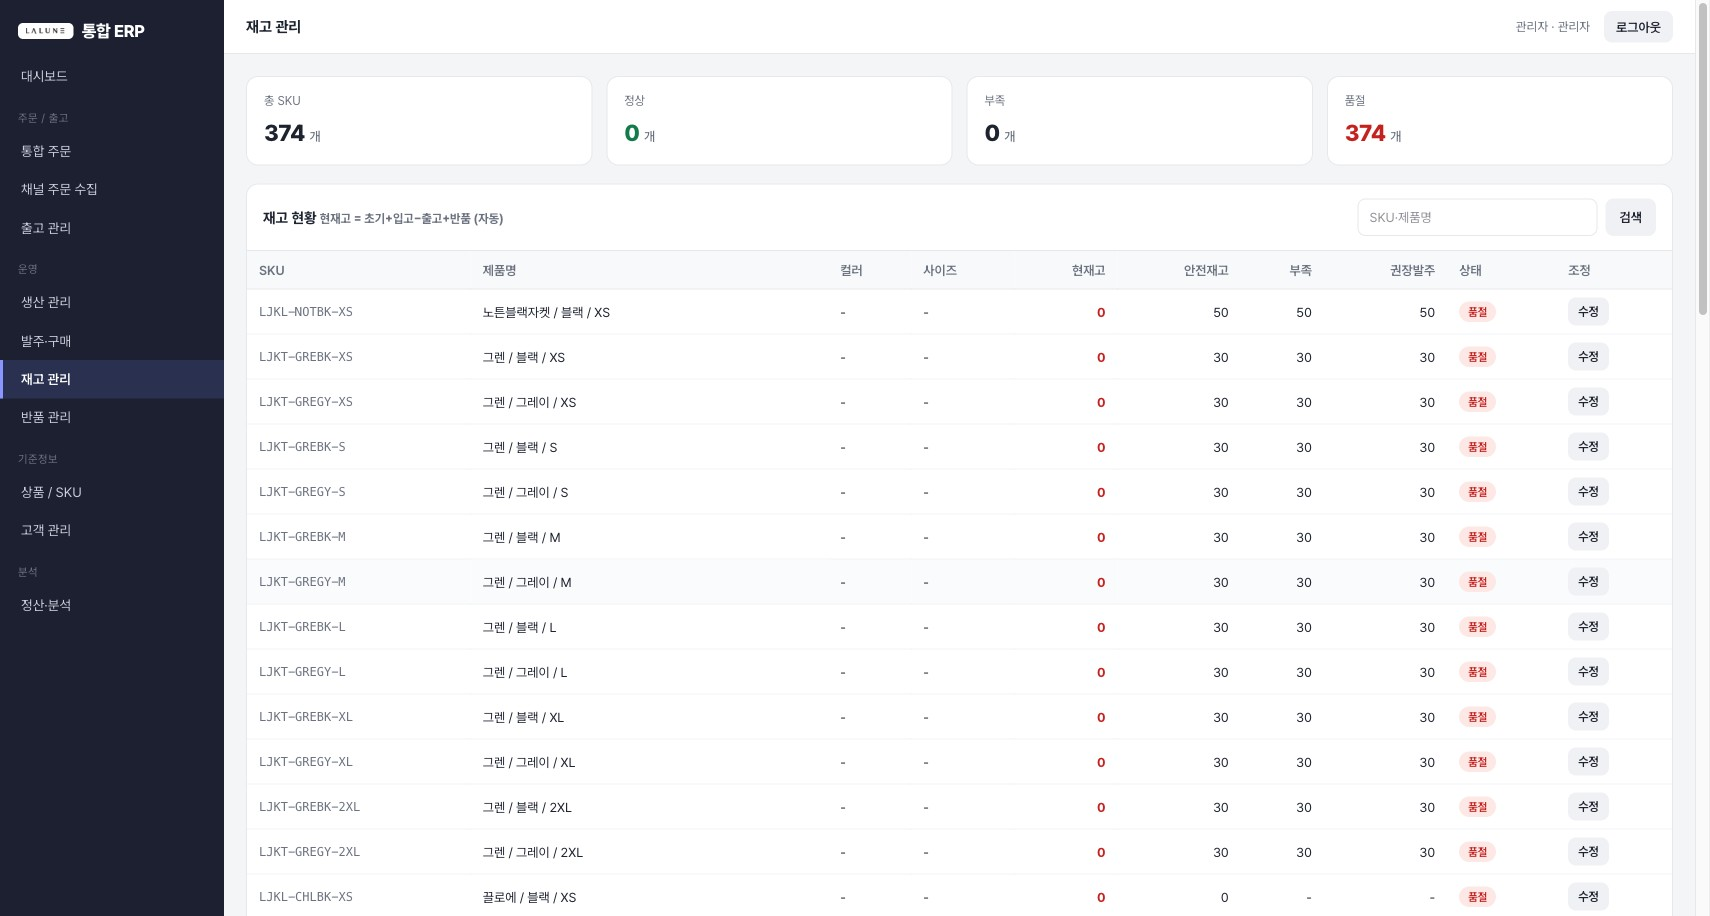
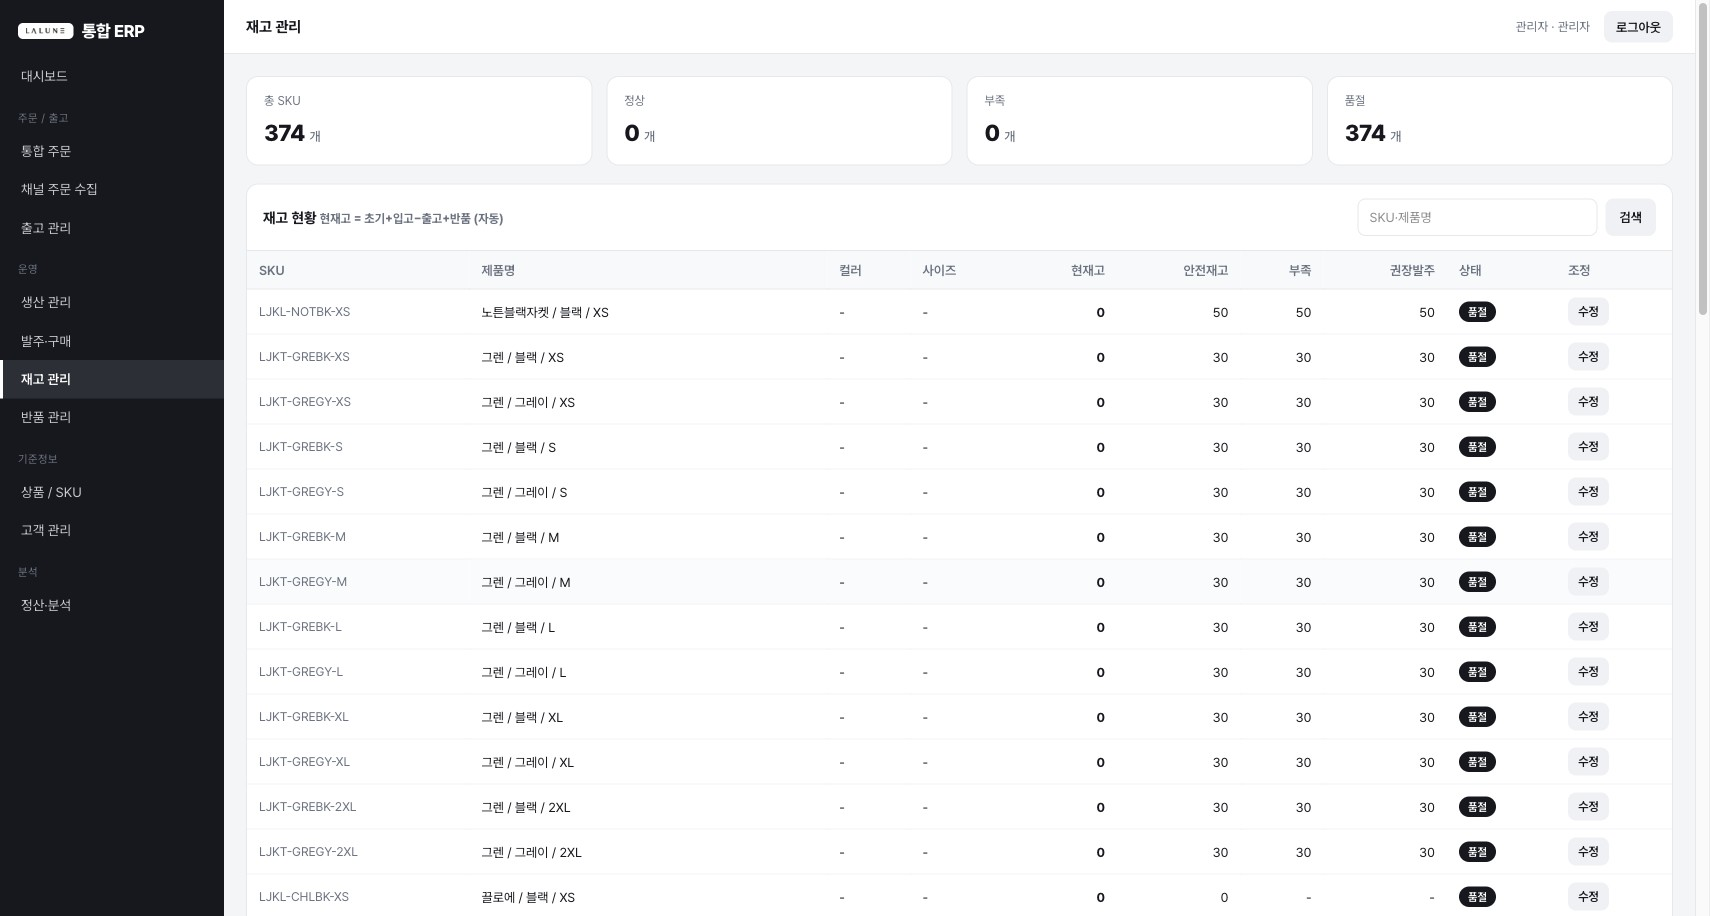
ERP: 전체 블랙앤화이트 테마 + 매뉴얼 인트로 인터랙션 + 폰트 Pretendard 통일
- globals.css/login/dashboard/analytics/Uploader 색상 모노톤(블랙앤화이트)으로 통일
- 매뉴얼(/lalune-erp/manual): 파랑→검정 폰트, 진입 시 블랙 레이어 상하 분할 인트로
  ("환영합니다, 라린느 담당자님" / "사용 매뉴얼을 보여드리겠습니다")
- 매뉴얼 말미 데모 안내문구 추가 (디자인 고도화는 계약 이후)
- 전 화면 스크린샷 14장 B&W로 재캡처

diff --git a/erp/app/app/manual/route.ts b/erp/app/app/manual/route.ts
@@ -15,15 +15,15 @@ const HTML = `<!DOCTYPE html>
 <link rel="preconnect" href="https://cdn.jsdelivr.net"/>
 <style>
 @import url('https://cdn.jsdelivr.net/gh/orioncactus/pretendard@v1.3.9/dist/web/variable/pretendardvariable.min.css');
-:root{--ink:#16181d;--sub:#5b616e;--muted:#9aa0ac;--line:#e6e8ec;--bg:#fff;--soft:#f6f7f9;--brand:#2f3a8f;--brand-50:#eef0fb;--ok:#137a4b;--ok-50:#e7f6ee;--warn:#b45309;--warn-50:#fef6e7;--danger:#c5221f;}
+:root{--ink:#16181d;--sub:#5b616e;--muted:#9aa0ac;--line:#e6e8ec;--bg:#fff;--soft:#f6f7f9;--brand:#16181d;--brand-50:#f1f2f4;--ok:#137a4b;--ok-50:#e7f6ee;--warn:#b45309;--warn-50:#fef6e7;--danger:#c5221f;}
 *{box-sizing:border-box;margin:0;padding:0;}
 body{font-family:'Pretendard Variable',Pretendard,-apple-system,system-ui,sans-serif;color:var(--ink);line-height:1.75;background:var(--soft);-webkit-font-smoothing:antialiased;}
 .page{max-width:1080px;margin:0 auto;background:#fff;}
 /* cover */
 .cover{background:#111;color:#fff;padding:80px 64px 56px;}
-.cover .badge{display:inline-block;border:1px solid rgba(255,255,255,.35);color:#cdd2e6;padding:5px 14px;border-radius:20px;font-size:12px;letter-spacing:.08em;margin-bottom:26px;}
+.cover .badge{display:inline-block;border:1px solid rgba(255,255,255,.35);color:#cfcfcf;padding:5px 14px;border-radius:20px;font-size:12px;letter-spacing:.08em;margin-bottom:26px;}
 .cover h1{font-size:42px;font-weight:800;letter-spacing:-.02em;line-height:1.2;}
-.cover h1 b{color:#aab2ff;}
+.cover h1 b{color:#fff;}
 .cover p{color:rgba(255,255,255,.55);font-size:16px;margin-top:12px;}
 .cover .meta{display:flex;gap:48px;margin-top:48px;padding-top:28px;border-top:1px solid rgba(255,255,255,.12);flex-wrap:wrap;}
 .cover .meta div{font-size:13px;color:rgba(255,255,255,.5);}
@@ -34,7 +34,7 @@ body{font-family:'Pretendard Variable',Pretendard,-apple-system,system-ui,sans-s
 .login .row{display:flex;gap:36px;flex-wrap:wrap;}
 .login .row div{font-size:14px;}
 .login .row b{display:block;font-size:12px;color:var(--muted);margin-bottom:2px;font-weight:600;}
-.login .row code{font-family:ui-monospace,Menlo,monospace;background:var(--soft);padding:3px 8px;border-radius:6px;font-size:13.5px;}
+.login .row code{font-family:inherit;font-weight:600;background:var(--soft);padding:3px 8px;border-radius:6px;font-size:13.5px;}
 .body{padding:48px 64px 80px;}
 /* toc */
 .toc{background:var(--soft);border:1px solid var(--line);border-radius:14px;padding:24px 26px;margin-bottom:48px;}
@@ -57,7 +57,7 @@ li{margin-bottom:7px;font-size:15px;}
 li b{color:var(--ink);}
 .callout{display:flex;gap:12px;padding:14px 16px;border-radius:10px;margin:16px 0;font-size:14.5px;}
 .callout .ic{flex-shrink:0;font-weight:800;}
-.callout.next{background:var(--brand-50);color:#27306a;}
+.callout.next{background:var(--brand-50);color:#16181d;}
 .callout.tip{background:var(--ok-50);color:#0f5c39;}
 .callout.warn{background:var(--warn-50);color:#7a4708;}
 table.kv{width:100%;border-collapse:collapse;margin:14px 0;font-size:14px;}
@@ -66,13 +66,13 @@ table.kv th{background:var(--soft);color:var(--sub);font-weight:600;width:200px;
 /* flow diagram */
 .flow{background:#111;border-radius:14px;padding:30px;color:#fff;margin:20px 0;}
 .flow .step{display:flex;align-items:center;gap:16px;margin-bottom:14px;}
-.flow .num{width:30px;height:30px;border-radius:50%;background:#aab2ff;color:#111;font-weight:800;display:flex;align-items:center;justify-content:center;flex-shrink:0;}
-.flow .box{background:#1e2233;border:1px solid #2c3350;border-radius:10px;padding:12px 16px;flex:1;}
+.flow .num{width:30px;height:30px;border-radius:50%;background:#fff;color:#111;font-weight:800;display:flex;align-items:center;justify-content:center;flex-shrink:0;}
+.flow .box{background:#1e1e1e;border:1px solid #353535;border-radius:10px;padding:12px 16px;flex:1;}
 .flow .box b{color:#fff;}
-.flow .box span{color:#9aa3c7;font-size:13.5px;}
+.flow .box span{color:#a8a8a8;font-size:13.5px;}
 .flow .arrow{text-align:left;color:#6b73a0;margin:2px 0 2px 14px;font-size:14px;}
 .chips{display:flex;gap:8px;flex-wrap:wrap;margin-top:6px;}
-.chip{background:#1e2233;border:1px solid #2c3350;border-radius:8px;padding:6px 12px;font-size:13px;color:#cdd2e6;}
+.chip{background:#222;border:1px solid #3a3a3a;border-radius:8px;padding:6px 12px;font-size:13px;color:#dcdcdc;}
 .scen{border:1px solid var(--line);border-radius:12px;padding:22px 24px;margin-bottom:20px;background:#fff;}
 .scen .tag{display:inline-block;background:#111;color:#fff;font-size:12px;font-weight:700;padding:4px 12px;border-radius:20px;margin-bottom:10px;}
 .scen h4{font-size:17px;margin-bottom:10px;}
@@ -80,10 +80,34 @@ table.kv th{background:var(--soft);color:var(--sub);font-weight:600;width:200px;
 .scen ol li{counter-increment:s;position:relative;padding-left:34px;margin-bottom:9px;}
 .scen ol li::before{content:counter(s);position:absolute;left:0;top:1px;width:22px;height:22px;background:var(--brand-50);color:var(--brand);border-radius:50%;font-size:12px;font-weight:700;display:flex;align-items:center;justify-content:center;}
 .foot{background:#111;color:rgba(255,255,255,.6);padding:32px 64px;font-size:13px;text-align:center;}
+.foot .demo-note{margin-top:14px;padding-top:14px;border-top:1px solid rgba(255,255,255,.12);color:rgba(255,255,255,.8);font-size:13.5px;line-height:1.7;}
+/* ── 진입 인트로 (블랙 레이어 상하 분할) ── */
+#intro{position:fixed;inset:0;z-index:9999;}
+#intro .half{position:absolute;left:0;right:0;height:50%;background:#0a0a0a;display:flex;justify-content:center;overflow:hidden;will-change:transform;}
+#intro .top{top:0;align-items:flex-end;}
+#intro .bottom{bottom:0;align-items:flex-start;}
+#intro .t{color:#fff;font-weight:700;font-size:clamp(19px,3.6vw,32px);letter-spacing:-.01em;text-align:center;padding:0 24px;opacity:0;}
+#intro .top .t{transform:translateY(-18px);animation:introIn .9s .3s cubic-bezier(.2,.7,.2,1) forwards;}
+#intro .bottom .t{transform:translateY(18px);animation:introIn .9s .45s cubic-bezier(.2,.7,.2,1) forwards;}
+@keyframes introIn{from{opacity:0;filter:blur(10px);}to{opacity:1;filter:blur(0);}}
+#intro .line{position:absolute;left:50%;top:50%;width:min(440px,72vw);height:1px;background:rgba(255,255,255,.55);transform:translate(-50%,-50%) scaleX(0);transform-origin:center;animation:introLine .9s .55s cubic-bezier(.2,.7,.2,1) forwards;}
+@keyframes introLine{to{transform:translate(-50%,-50%) scaleX(1);}}
+#intro.open .top{transform:translateY(-100%);transition:transform 1.05s cubic-bezier(.76,0,.24,1);}
+#intro.open .bottom{transform:translateY(100%);transition:transform 1.05s cubic-bezier(.76,0,.24,1);}
+#intro.open .t,#intro.open .line{opacity:0;transition:opacity .45s ease;}
+#intro.hidden{display:none;}
+@media(prefers-reduced-motion:reduce){#intro{display:none;}}
 @media(max-width:760px){.cover,.body,.login,.foot{padding-left:22px;padding-right:22px;}.login{margin-left:22px;margin-right:22px;}.toc-grid{grid-template-columns:1fr;}.cover h1{font-size:30px;}}
 </style>
 </head>
 <body>
+
+<div id="intro" aria-hidden="true">
+  <div class="half top"><div class="t">환영합니다, 라린느 담당자님</div></div>
+  <div class="half bottom"><div class="t">사용 매뉴얼을 보여드리겠습니다.</div></div>
+  <div class="line"></div>
+</div>
+
 <div class="page">
 
 <div class="cover">
@@ -354,9 +378,19 @@ table.kv th{background:var(--soft);color:var(--sub);font-weight:600;width:200px;
 <div class="foot">
   라린느 통합 ERP 사용 매뉴얼 · MVP v1.0 · 데이터 기준: 검토용_라린느_ERP_v45<br/>
   © 2026 MaxImpact. 이 매뉴얼은 현재 MVP 기준이며 기능 추가 시 함께 업데이트됩니다.
+  <div class="demo-note">디자인과 가시성 고도화는 프로젝트 계약 이후에 진행 됩니다.<br/>현재는 데모 버전인 것을 감안하여 확인 부탁드립니다.</div>
 </div>
 
 </div>
+
+<script>
+(function(){
+  var i=document.getElementById('intro');
+  if(!i) return;
+  setTimeout(function(){ i.classList.add('open'); }, 2300);
+  setTimeout(function(){ i.classList.add('hidden'); }, 3450);
+})();
+</script>
 </body>
 </html>`;
 

diff --git a/erp/app/app/globals.css b/erp/app/app/globals.css
@@ -2,19 +2,19 @@
 @import "tailwindcss";
 
 :root {
-  --bg: #f4f5f7;
+  --bg: #f4f5f6;
   --panel: #ffffff;
-  --ink: #1e2330;
+  --ink: #16181d;
   --sub: #6b7280;
   --line: #e6e8ec;
-  --brand: #2f3a8f;        /* 라린느 딥블루 */
-  --brand-600: #283172;
-  --brand-50: #eef0fb;
-  --accent: #c0392b;
-  --ok: #137a4b;
-  --warn: #b45309;
-  --danger: #c5221f;
-  --chip: #eef0fb;
+  --brand: #16181d;        /* 블랙앤화이트 — 블랙 */
+  --brand-600: #000000;
+  --brand-50: #f1f2f4;
+  --accent: #16181d;
+  --ok: #16181d;
+  --warn: #4b5159;
+  --danger: #16181d;
+  --chip: #f1f2f4;
 }
 
 * { box-sizing: border-box; }
@@ -30,13 +30,13 @@ a { color: inherit; text-decoration: none; }
 
 /* layout */
 .shell { display: flex; min-height: 100vh; }
-.side { width: 224px; background: #1c2030; color: #c9cedb; flex-shrink: 0; position: sticky; top: 0; height: 100vh; overflow-y: auto; }
+.side { width: 224px; background: #16181d; color: #c8cacf; flex-shrink: 0; position: sticky; top: 0; height: 100vh; overflow-y: auto; }
 .side .brand { padding: 18px 18px 14px; font-weight: 800; font-size: 17px; color: #fff; letter-spacing: -.3px; display: flex; align-items: center; gap: 8px; }
 .side .brand b { background: #fff; color: var(--brand); border-radius: 5px; padding: 1px 7px; font-size: 13px; }
 .side .grp { font-size: 11px; color: #6b7280; text-transform: uppercase; letter-spacing: .5px; padding: 14px 18px 6px; }
-.side a.nav { display: flex; align-items: center; gap: 10px; padding: 9px 18px; font-size: 13.5px; color: #c9cedb; border-left: 3px solid transparent; cursor: pointer; }
-.side a.nav:hover { background: #252a3d; color: #fff; }
-.side a.nav.on { background: #2a3150; color: #fff; border-left-color: #8b95ff; font-weight: 600; }
+.side a.nav { display: flex; align-items: center; gap: 10px; padding: 9px 18px; font-size: 13.5px; color: #c8cacf; border-left: 3px solid transparent; cursor: pointer; }
+.side a.nav:hover { background: #24262c; color: #fff; }
+.side a.nav.on { background: #2c2f36; color: #fff; border-left-color: #fff; font-weight: 600; }
 .side a.nav .ic { width: 16px; text-align: center; opacity: .85; }
 
 .main { flex: 1; display: flex; flex-direction: column; min-width: 0; }
@@ -67,15 +67,16 @@ table.dt th { background: #f8f9fb; color: var(--sub); font-weight: 600; text-ali
 table.dt td { padding: 8px 12px; border-bottom: 1px solid #f1f2f5; white-space: nowrap; }
 table.dt tr:hover td { background: #fafbfc; }
 table.dt td.num, table.dt th.num { text-align: right; font-variant-numeric: tabular-nums; }
-.mono { font-family: ui-monospace, Menlo, monospace; font-size: 12px; color: var(--sub); }
+.mono { font-family: inherit; font-size: 12.5px; color: var(--sub); }
 
 /* chips */
 .badge { font-size: 11px; padding: 2px 9px; border-radius: 20px; font-weight: 600; display: inline-block; }
-.b-ok { background: #e6f4ea; color: #137a4b; }
-.b-warn { background: #fef3e2; color: #b45309; }
-.b-danger { background: #fde8e6; color: #c5221f; }
-.b-info { background: #eef0fb; color: #2f3a8f; }
-.b-gray { background: #eef0f2; color: #5f6b7a; }
+/* 블랙앤화이트 모노톤 배지 — 색 대신 명도/외곽선으로 구분 */
+.b-ok { background: #ededf0; color: #16181d; }
+.b-warn { background: #ededf0; color: #4b5159; border: 1px solid #d6d8de; }
+.b-danger { background: #16181d; color: #fff; }
+.b-info { background: #ededf0; color: #16181d; }
+.b-gray { background: #f1f2f4; color: #5f6b7a; }
 
 .btn { border: none; border-radius: 8px; padding: 8px 14px; font-size: 13px; font-weight: 600; cursor: pointer; font-family: inherit; display: inline-flex; align-items: center; gap: 6px; }
 .btn.primary { background: var(--brand); color: #fff; }

diff --git a/erp/app/components/Uploader.tsx b/erp/app/components/Uploader.tsx
@@ -51,7 +51,7 @@ export default function Uploader() {
       {/* ── 채널 동기화 (데모) ── */}
       <div style={{ marginBottom: 22, padding: 16, border: "1px solid var(--line)", borderRadius: 12, background: "var(--brand-50)" }}>
         <div style={{ fontWeight: 700, fontSize: 14, marginBottom: 4 }}>채널 자동 동기화</div>
-        <div style={{ fontSize: 12.5, color: "var(--warn)", background: "#fef6e7", padding: "8px 12px", borderRadius: 8, marginBottom: 12 }}>
+        <div style={{ fontSize: 12.5, color: "#4b5159", background: "#f1f2f4", border: "1px solid #e2e4e8", padding: "8px 12px", borderRadius: 8, marginBottom: 12 }}>
           ※ 데모 사이트이므로 실제 API 통신은 되지 않습니다. 데이터 동기화 테스트 시나리오를 보기 위한 버튼입니다.
         </div>
         <div style={{ display: "flex", gap: 10, flexWrap: "wrap" }}>
@@ -63,11 +63,11 @@ export default function Uploader() {
         </div>
 
         {sync && !sync.ok && (
-          <div style={{ marginTop: 12, padding: "9px 13px", background: "#fdecec", color: "#b03939", borderRadius: 8, fontSize: 13 }}>동기화 실패: {sync.error}</div>
+          <div style={{ marginTop: 12, padding: "9px 13px", background: "#f1f2f4", color: "#16181d", border: "1px solid #d6d8de", borderRadius: 8, fontSize: 13 }}>동기화 실패: {sync.error}</div>
         )}
         {sync && sync.ok && (
           <div style={{ marginTop: 12 }}>
-            <div style={{ padding: "9px 13px", background: "#e6f4ea", color: "#137a4b", borderRadius: 8, fontSize: 13, fontWeight: 600 }}>
+            <div style={{ padding: "9px 13px", background: "#16181d", color: "#fff", borderRadius: 8, fontSize: 13, fontWeight: 600 }}>
               {sync.channel}에서 {sync.inserted}건 동기화 완료 · 고객 노성준({sync.customer?.code}) 누적 {sync.customer?.cumulative.toLocaleString()}원 → 등급 {sync.customer?.grade}
             </div>
             <div className="tablewrap" style={{ marginTop: 10, border: "1px solid var(--line)", borderRadius: 10 }}>
@@ -109,13 +109,13 @@ export default function Uploader() {
       </p>
 
       {res && !res.ok && (
-        <div style={{ marginTop: 14, padding: "10px 14px", background: "#fdecec", color: "#b03939", borderRadius: 8, fontSize: 13 }}>
+        <div style={{ marginTop: 14, padding: "10px 14px", background: "#f1f2f4", color: "#16181d", border: "1px solid #d6d8de", borderRadius: 8, fontSize: 13 }}>
           업로드 실패: {res.error === "empty" ? "유효한 주문 행이 없습니다." : res.error === "parse_failed" ? "엑셀을 읽을 수 없습니다." : res.error}
         </div>
       )}
       {res && res.ok && (
         <div style={{ marginTop: 14 }}>
-          <div style={{ padding: "10px 14px", background: "#e6f4ea", color: "#137a4b", borderRadius: 8, fontSize: 13, fontWeight: 600 }}>
+          <div style={{ padding: "10px 14px", background: "#16181d", color: "#fff", borderRadius: 8, fontSize: 13, fontWeight: 600 }}>
             {res.inserted}건 수집 완료 · 신규 고객 {res.newCustomers}명 자동등록
           </div>
           {res.sample && res.sample.length > 0 && (

diff --git a/erp/app/app/(app)/analytics/page.tsx b/erp/app/app/(app)/analytics/page.tsx
@@ -50,7 +50,7 @@ export default async function Analytics() {
       <div className="panel">
         <div className="ph"><h3>채널별 {costReady ? "손익 (P&L)" : "매출"}</h3><span className="hint">{costReady ? "— 원가는 상품마스터 매칭 기준 추정" : "— 통합 주문 기준"}</span></div>
         {!costReady && (
-          <div style={{ margin: "0 16px 12px", padding: "9px 13px", background: "#fef6e7", color: "#92600a", borderRadius: 8, fontSize: 12.5 }}>
+          <div style={{ margin: "0 16px 12px", padding: "9px 13px", background: "#f1f2f4", color: "#4b5159", border: "1px solid #e2e4e8", borderRadius: 8, fontSize: 12.5 }}>
             ※ 손익(원가·이익) 분석은 <b>주문↔상품 SKU 매칭</b> 후 산출됩니다. 현재 원본 데이터의 SKU 체계가 채널마다 달라 매칭률이 낮습니다 — <b>SKU 표준화(2차 과제)</b> 완료 시 채널별 원가·마진이 자동 표기됩니다.
           </div>
         )}
@@ -96,7 +96,7 @@ export default async function Analytics() {
             <div className="barwrap">
               {(["VIP", "우수", "일반"] as const).map((g) => {
                 const mx = Math.max(1, grades.VIP, grades.우수, grades.일반);
-                const cls = g === "VIP" ? "#c5221f" : g === "우수" ? "#b45309" : "#2f3a8f";
+                const cls = g === "VIP" ? "#16181d" : g === "우수" ? "#6b7280" : "#9aa0ac";
                 return <div className="bar" key={g}><span className="lbl">{g}</span><span className="track"><span className="fill" style={{ width: `${(grades[g] / mx) * 100}%`, background: cls }} /></span><span className="amt">{num(grades[g])}명</span></div>;
               })}
             </div>

diff --git a/erp/app/app/login/page.tsx b/erp/app/app/login/page.tsx
@@ -38,7 +38,7 @@ export default function Login() {
           <input type="password" value={pw} onChange={(e) => setPw(e.target.value)}
             style={{ width: "100%", padding: "12px 13px", border: "1.4px solid #e6e8ec", borderRadius: 10, fontSize: 14, outlineColor: "#111" }} />
 
-          {err && <div style={{ marginTop: 14, padding: "9px 12px", background: "#f6f7f9", color: "#c5221f", borderRadius: 8, fontSize: 13 }}>{err}</div>}
+          {err && <div style={{ marginTop: 14, padding: "9px 12px", background: "#f1f2f4", color: "#16181d", border: "1px solid #d6d8de", borderRadius: 8, fontSize: 13 }}>{err}</div>}
 
           <button type="submit" disabled={busy}
             style={{ width: "100%", marginTop: 24, padding: 14, background: "#111", color: "#fff", border: "none", borderRadius: 10, fontSize: 15, fontWeight: 700, cursor: busy ? "progress" : "pointer" }}>

diff --git a/erp/app/app/(app)/page.tsx b/erp/app/app/(app)/page.tsx
@@ -138,5 +138,5 @@ export function StatusBadge({ s }: { s: string | null }) {
 }
 
 function barColor(s: string) {
-  return ({ 출고완료: "#137a4b", "반품/취소": "#c5221f", 생산중: "#b45309", 자수대기: "#b45309" } as Record<string, string>)[s] ?? "var(--brand)";
+  return ({ 출고완료: "#16181d", "반품/취소": "#b8bcc4", 생산중: "#6b7280", 자수대기: "#9aa0ac" } as Record<string, string>)[s] ?? "var(--brand)";
 }
